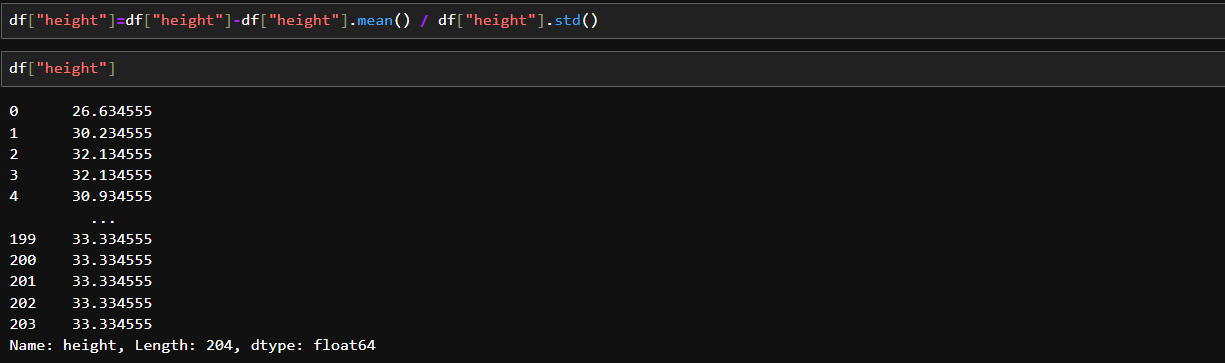
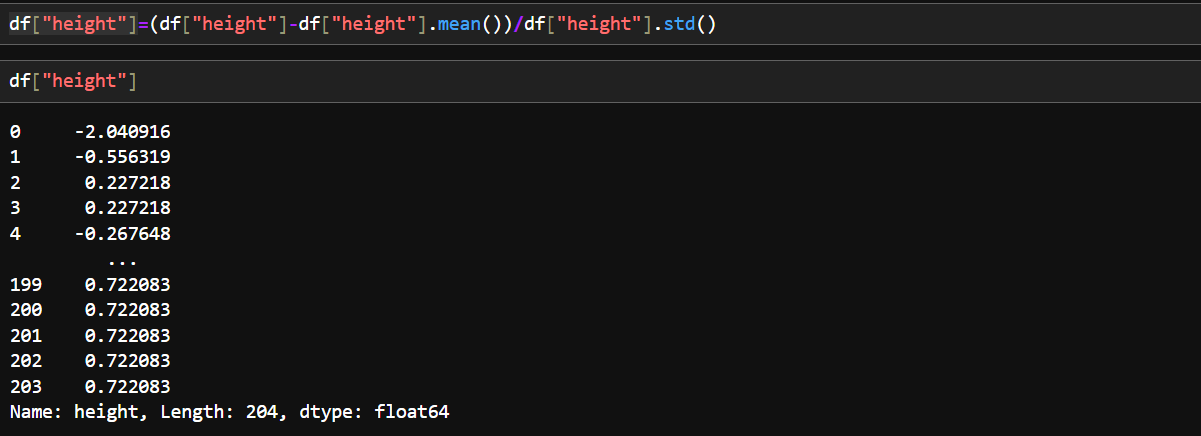
Updated 2.4

diff --git a/Chapter2.4.md b/Chapter2.4.md
@@ -47,5 +47,5 @@ With Pandas:
 With Pandas:  
 1) Before  
 ![height1](image-26.png)
-2) After using the Pandas' `mean()` and `std()` functions: `df["height"]=df["height"]-df["height"].mean() / df["height"].std()`  
+2) After using the Pandas' `mean()` and `std()` functions: `df["height"]=(df["height"]-df["height"].mean() ) / df["height"].std()`  
 ![height2](image-27.png)

diff --git a/Module2.md b/Module2.md
@@ -14,7 +14,7 @@
 
 ---
   
-## 🌟 [Chapter 4: Data Normalizatio in Python](Chapter2.4.md)
+## 🌟 [Chapter 4: Data Normalization in Python](Chapter2.4.md)
 
 ---
 
